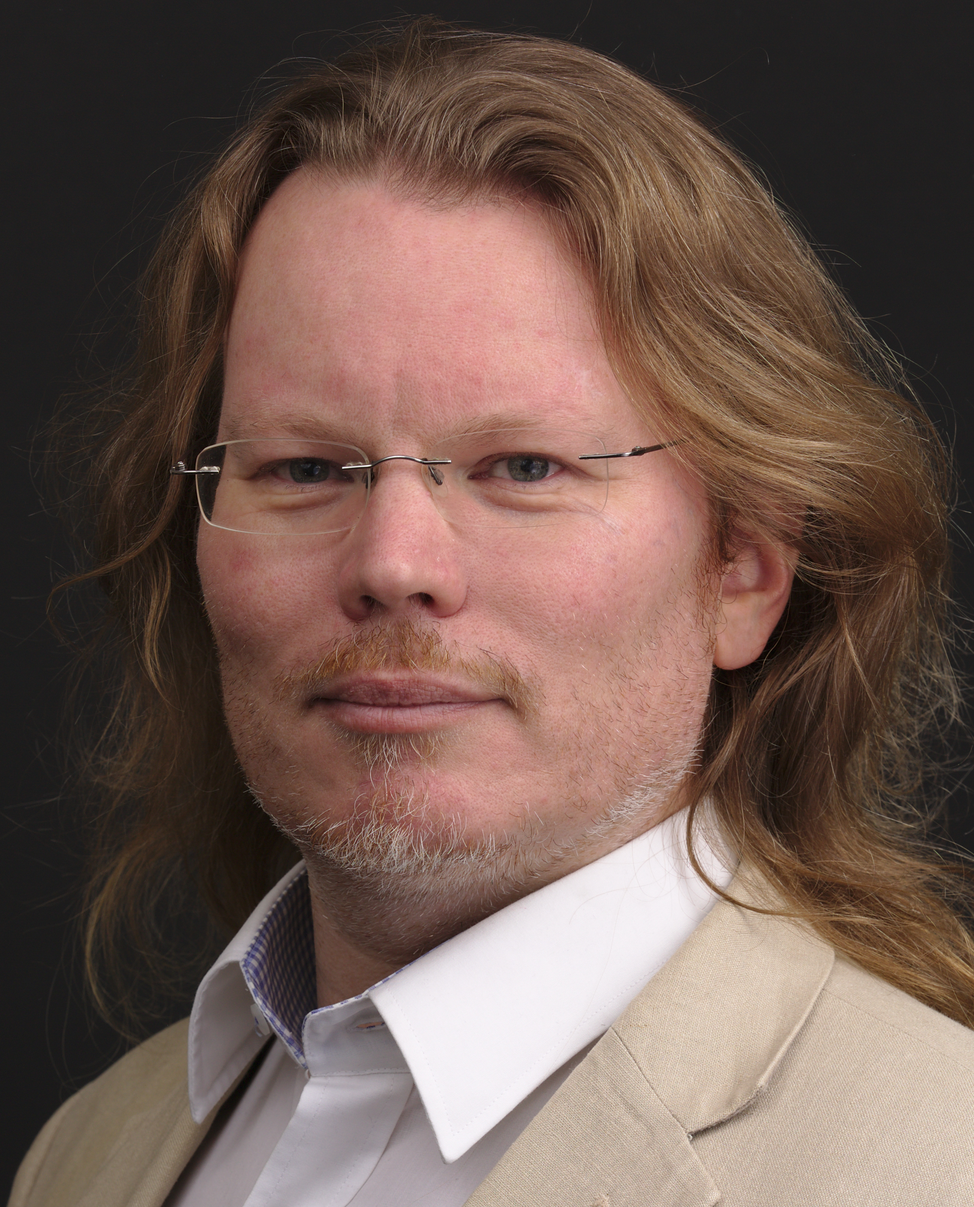
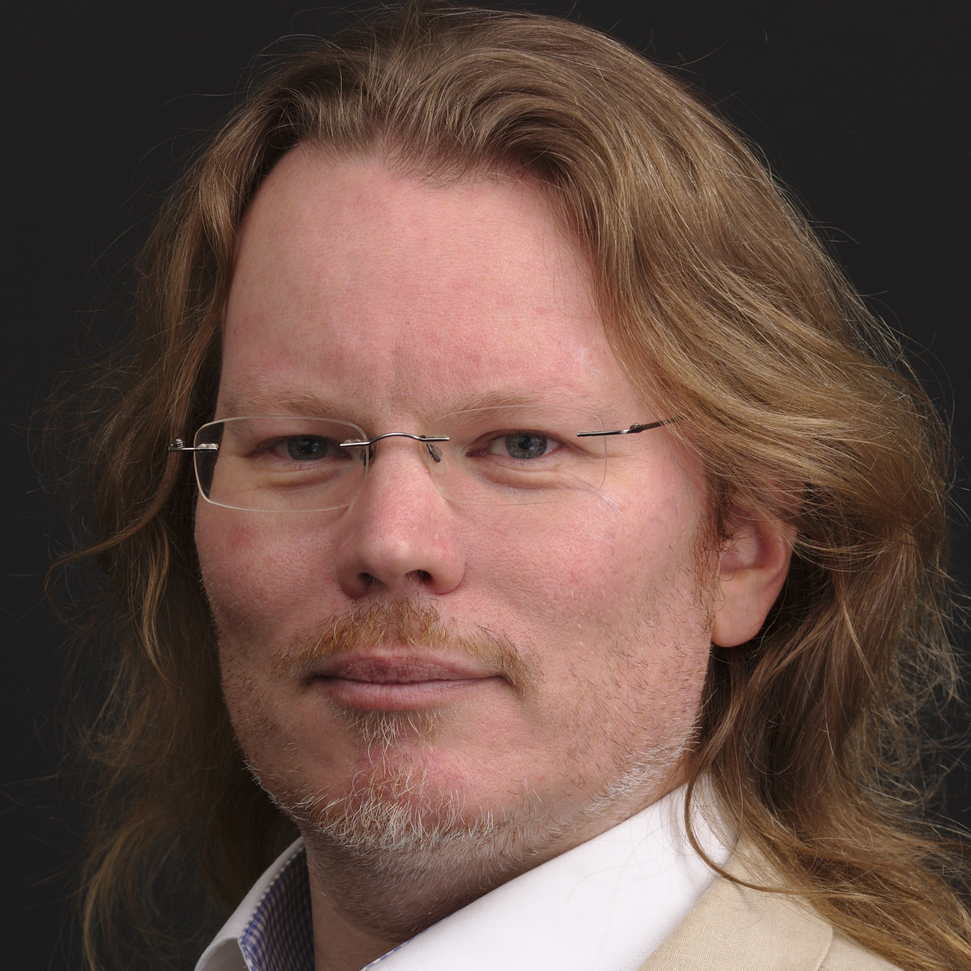
Change photo path

diff --git a/src/symposium-speakers/symposium-speakers.html b/src/symposium-speakers/symposium-speakers.html
@@ -120,7 +120,7 @@
     </section>
 
     <section>
-      <symposium-speaker name="Arjen Kamphuis (Brunel)" image="/2017/images/speakers/arjen_kamphuis.jpg">
+      <symposium-speaker name="Arjen Kamphuis (Brunel)" image="/2017/images-optimized/speakers/arjen_kamphuis.jpg">
         <b>Biography</b><br>
         Arjen Kamphuis worked for IBM as IT-architect in the '90s. From 2002 to 2010 he advised several European countries on IT-strategy, opensource and open standards. Since 2006 he helps to secure the information systems of corporates, national government and NGO's. His work ranges from regular privacy-compliance and security-awareness up to countering espionage against companies, journalists and governments. To keep up technically Arjen is involved with the global hacker-scene and keeps in touch with (former)employees of spy agencies and other professionals who work at the front of critical infrastructure protection.
       </symposium-speaker>
